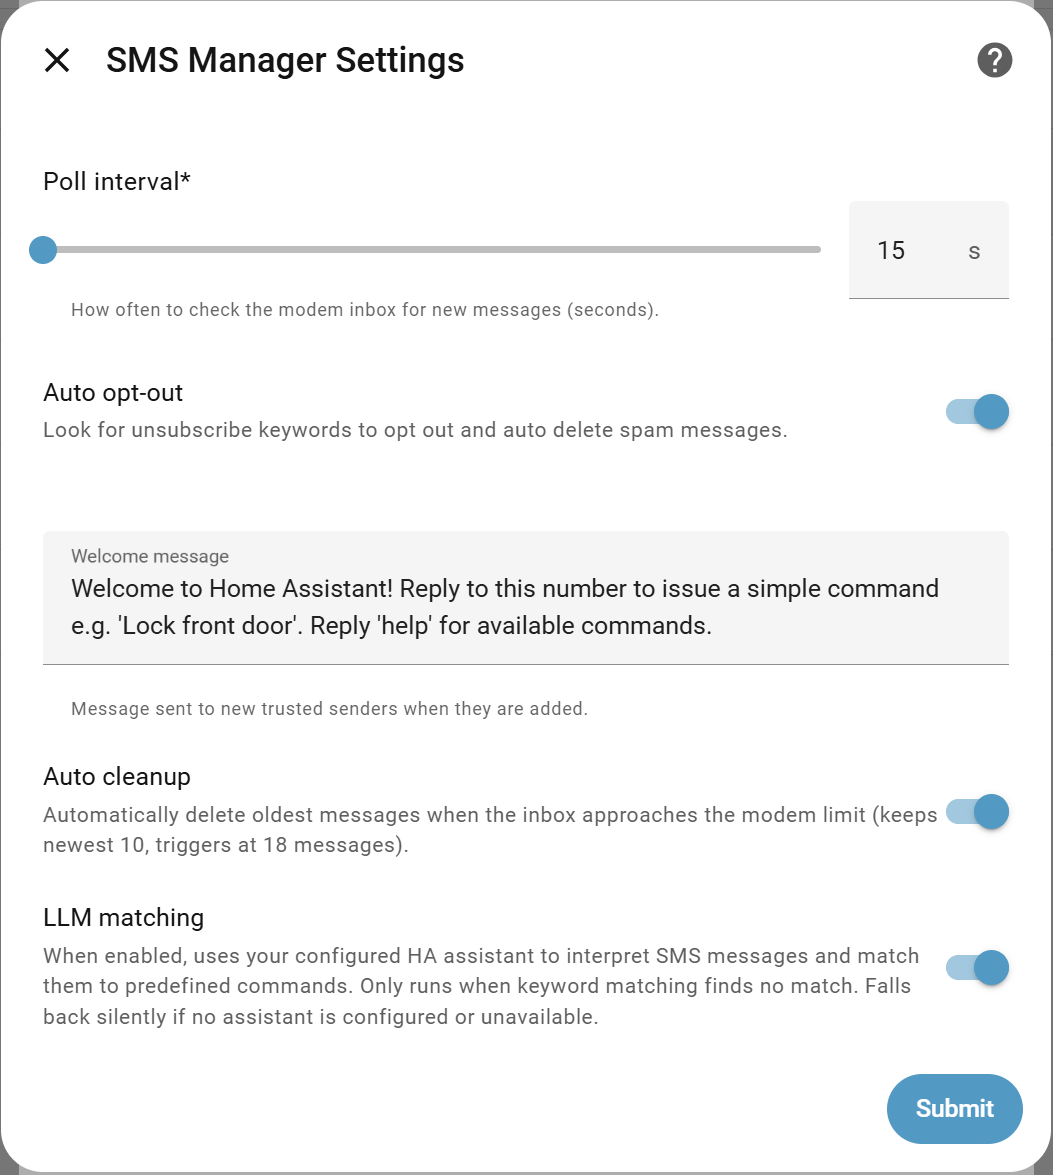
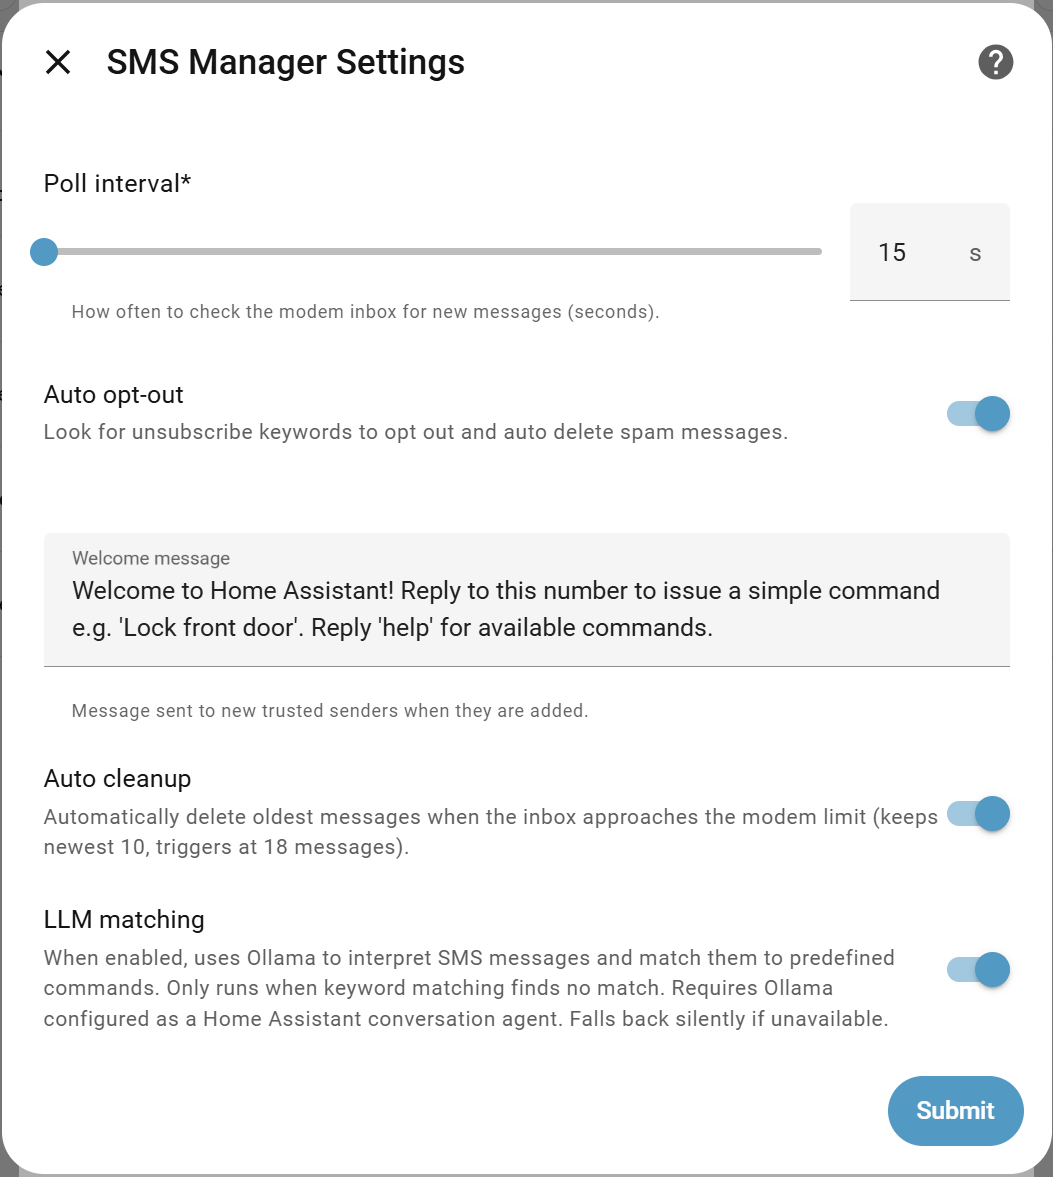
docs: fix panel-inbox screenshot filename, update panel-options with Ollama description

diff --git a/README.md b/README.md
@@ -7,7 +7,7 @@ A Home Assistant custom component that extends the core `netgear_lte` integratio
 
 ## Screenshots
 
-![Panel inbox](screenshots/panel_inbox.png)
+![Panel inbox](screenshots/panel-inbox.png)
 
 *Main panel — inbox, trusted senders, and SMS commands at a glance*
 
